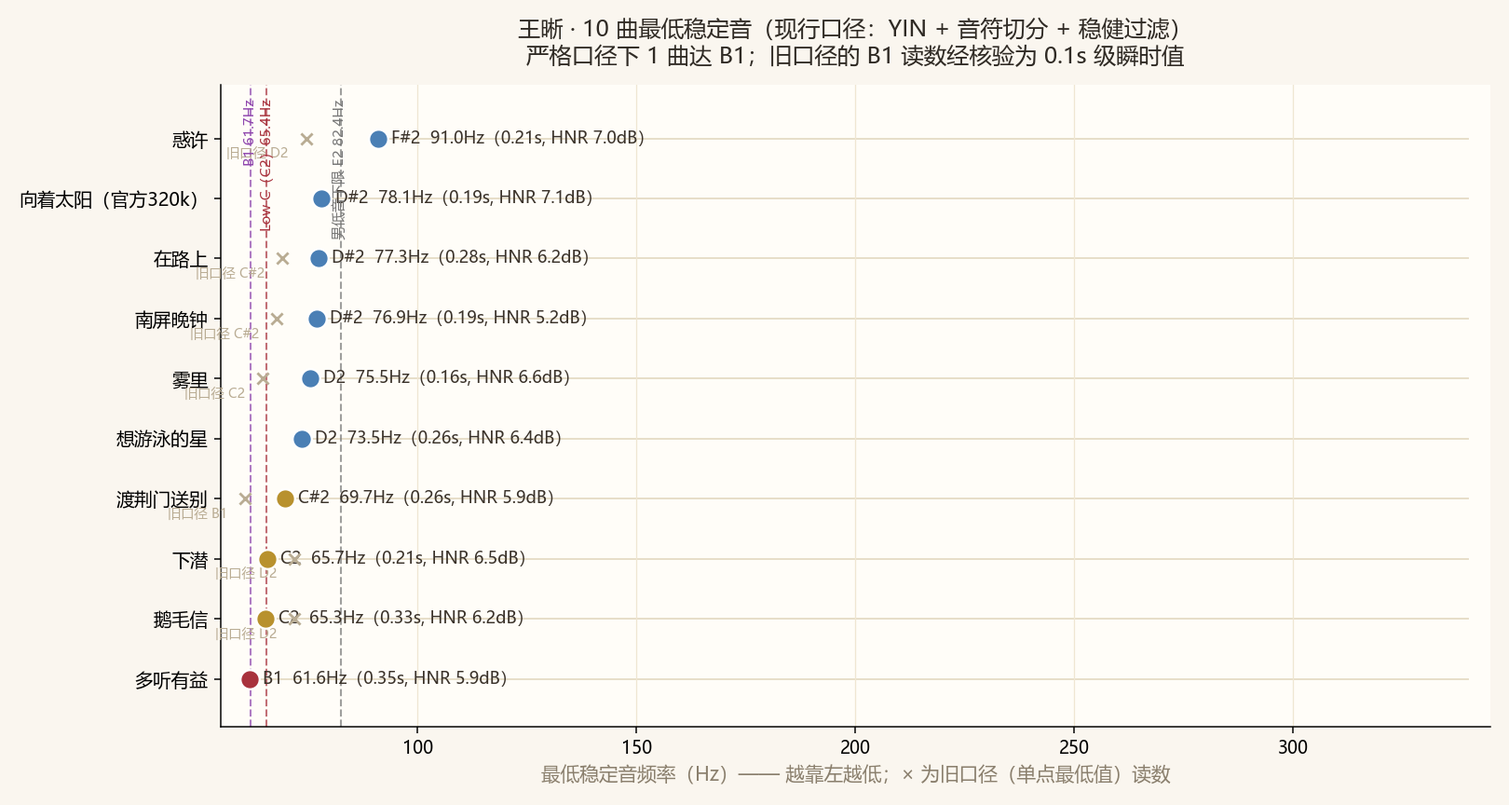
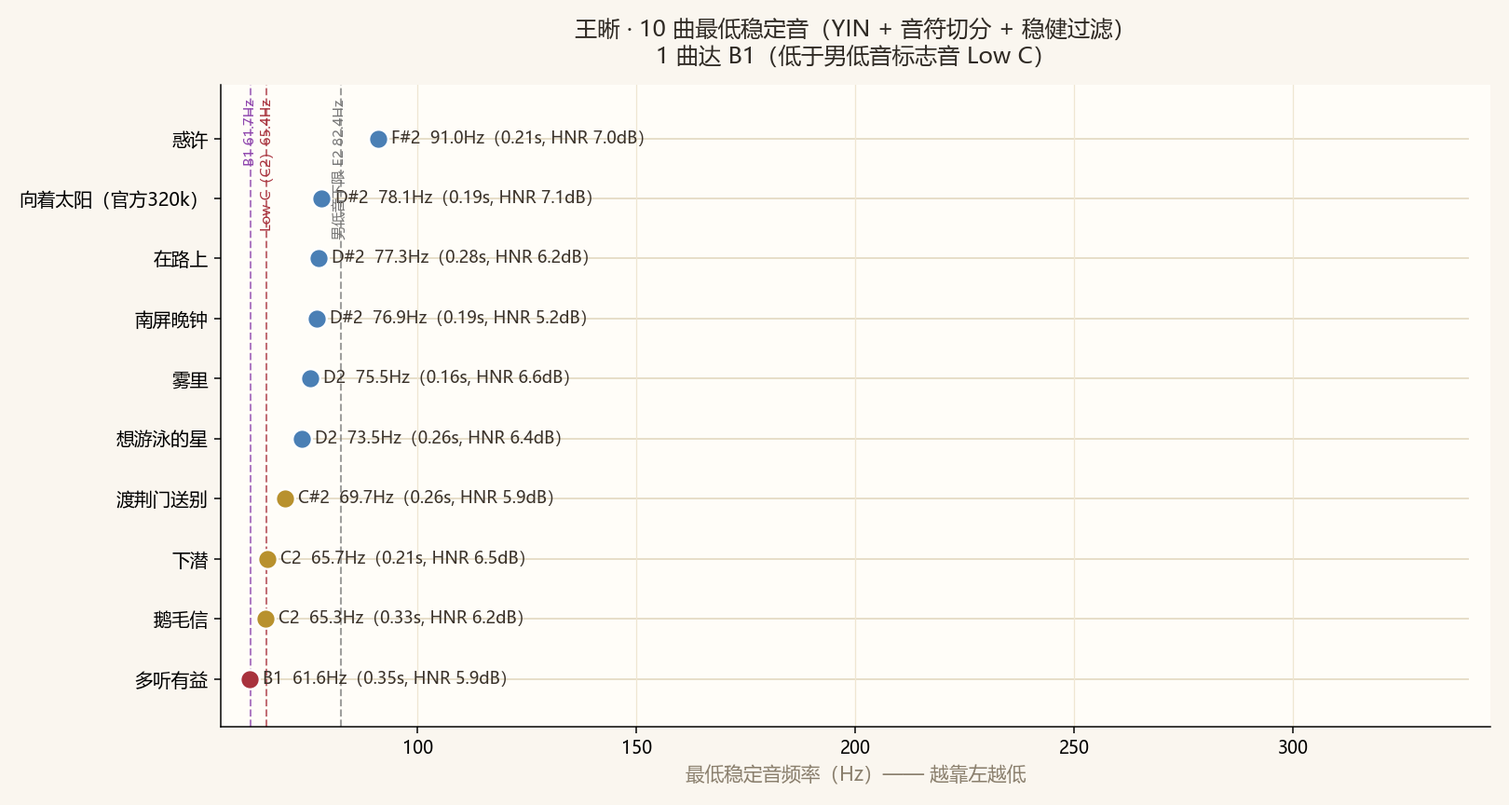
清理旧口径/过程稿内容(读者向): voice.html 删除口径升级公告+口径变更卡片+瞬时最低列+pYIN互验+结论修正叙述; stage.html 去v1/旧口径叙述与'含结论修正'标题; 数据层 method.cross_check 与 conclusion.note 同步; 十曲图去旧口径标注重绘; llms.txt 去'结论修正'; 新增过程稿措辞黑名单(audit_jsonld+audit_live)

diff --git a/live/setlists.html b/live/setlists.html
@@ -146,7 +146,7 @@ h3{color:#444;margin:18px 0 8px;}
 <article class="show" id="show-2026-06-13"><h3>重庆（首站） · 2026-06-13 · 重庆施光南大剧院</h3><ol class="songs"><li><span class="s-order">1</span><span class="s-title">花儿为什么这样红</span><span class="s-note">本场第1首；开场；二巡歌颂经典开场六巡神还原；B站饭拍talk版上半场收录；证据：晰晰Calepin BV1nzjM6iEtS 上半场00:08起；饭拍验证；剧院：重庆施光南大剧院</span></li><li><span class="s-order">2</span><span class="s-title">像雾像雨又像风</span><span class="s-note">本场第2首；二巡经典回归；talk版上半场收录；证据：晰晰Calepin 完整版上半场收录；剧院：重庆施光南大剧院</span></li><li><span class="s-order">3</span><span class="s-title">Yesterday Once More</span><span class="s-note">本场第3首；卡朋特经典；4K双语字幕饭拍已确认；证据：B站 一只小陆____ BV1wsjV6HEy6 4K双语字幕版；剧院：重庆施光南大剧院</span></li><li><span class="s-order">4</span><span class="s-title">Close to You</span><span class="s-note">本场第4首；卡朋特经典；三巡图景固定曲目回归；证据：粉丝现场披露单 + talk版上半场收录；剧院：重庆施光南大剧院</span></li><li><span class="s-order">5</span><span class="s-title">月半弯</span><span class="s-note">本场第5首；三巡图景/四巡肆益经典；六巡全新编曲回归；证据：粉丝现场披露单 + talk版上半场收录；剧院：重庆施光南大剧院</span></li><li><span class="s-order">6</span><span class="s-title">再见我的爱人</span><span class="s-note">本场第6首；一巡经典；被粉丝要求连唱两遍；证据：B站 一只小陆____ BV1sP7F6HEwA 4K字幕版（2059次播放喉结震颤版）；剧院：重庆施光南大剧院</span></li><li><span class="s-order">7</span><span class="s-title">心动</span><span class="s-note">本场第7首；一巡珍晰 / 四巡肆益首场+跨年点歌；六巡正式入固定单；证据：粉丝现场披露单 + talk版上半场收录；剧院：重庆施光南大剧院</span></li><li><span class="s-order">8</span><span class="s-title">一生守候</span><span class="s-note">本场第8首；【安可/点歌】；用户披露单未收录！；证据：B站 Apewinter BV1m7Jp6ZELZ 《王晰六巡【一生守候】》4K饭拍 130播放；剧院：重庆施光南大剧院；【排序修正】依据主站现场实录与B站饭拍合集上传倒序，实际为本场第8首（上半场末），非安可</span></li><li><span class="s-order">9</span><span class="s-title">让她降落</span><span class="s-note">本场第9首；一巡珍晰开场曲；粉丝称"最权威的版本六年后回归"；证据：B站 BV1zEJA6xEr2（4K字幕6.0万播放53弹幕）+ 鹅毛信版BV1icJp6zEG3；剧院：重庆施光南大剧院；上半场最后一首（花瓣雨）</span></li><li><span class="s-order">10</span><span class="s-title">Besame Mucho</span><span class="s-note">本场第10首；我是歌手第四季踢馆封神曲；一巡/四巡固定；拉丁情歌经典；证据：重庆文艺网官方售票宣推提及 + 完整版下半场talk收录；剧院：重庆施光南大剧院</span></li><li><span class="s-order">11</span><span class="s-title">Autumn Leaves</span><span class="s-note">本场第11首；我是歌手第三季；一巡二巡经典爵士；证据：粉丝现场披露单 + talk版下半场收录；剧院：重庆施光南大剧院</span></li><li><span class="s-order">12</span><span class="s-title">情网</span><span class="s-note">本场第12首；张学友经典翻唱；六巡新加入固定曲；证据：粉丝现场披露单 + talk版下半场收录；剧院：重庆施光南大剧院</span></li><li><span class="s-order">13</span><span class="s-title">平凡又美好的晚上</span><span class="s-note">本场第13首；待考出处；六巡新增固定曲目（疑似原创）；证据：粉丝现场披露单 + talk版下半场收录；剧院：重庆施光南大剧院</span></li><li><span class="s-order">14</span><span class="s-title">女人花+水中花</span><span class="s-note">本场第14首；组曲；"动如彩蝶穿花，静如秋水沉波"；4K饭拍舞美已确认；证据：B站 Apewinter BV1iKJ46QEkX 舞美饭拍 + 一只小陆____4K字幕神级弦乐bridge版；剧院：重庆施光南大剧院</span></li><li><span class="s-order">15</span><span class="s-title">Your Man</span><span class="s-note">本场第15首；一巡珍晰固定；摇摆爵士；六巡swing新编；证据：B站 Apewinter BV15bJA6SEmK（"swing起来！"直拍）；剧院：重庆施光南大剧院</span></li><li><span class="s-order">16</span><span class="s-title">生日快乐</span><span class="s-note">本场第16首；主站现场实录收录（live/hui-回-重庆-2026.html）；四巡北京首场/广州/武汉收官等场亦有生日歌互动传统；独立饭拍未见，依据站方实录，待二次核验</span></li><li><span class="s-order">17</span><span class="s-title">夜色</span><span class="s-note">本场第17首；收尾曲；"爱你情深意绵"；4K字幕饭拍已确认；证据：B站 一只小陆____ 《夜色》4K字幕 + Apewinter BV1NaLo6kEue talk版；剧院：重庆施光南大剧院</span></li></ol></article>
 <article class="show" id="show-2026-08-23"><h3>广州 · 2026-08-23 · 广东艺术剧院</h3><ol class="songs"><li><span class="s-order">0</span><span class="s-title">生日快乐</span><span class="s-note">互动环节</span></li><li><span class="s-order">1</span><span class="s-title">花儿为什么这样红</span><span class="s-note">开场曲</span></li><li><span class="s-order">2</span><span class="s-title">橄榄树</span><span class="s-note">广州限定新增曲(重庆站无); 五巡金曲回归</span></li><li><span class="s-order">3</span><span class="s-title">像雾像雨又像风</span><span class="s-note">六巡固定</span></li><li><span class="s-order">4</span><span class="s-title">Yesterday Once More</span><span class="s-note">卡朋特经典</span></li><li><span class="s-order">5</span><span class="s-title">Close to You</span><span class="s-note">三巡图景回归</span></li><li><span class="s-order">6</span><span class="s-title">月半弯</span><span class="s-note">六巡回归</span></li><li><span class="s-order">7</span><span class="s-title">再见我的爱人</span><span class="s-note">一巡经典</span></li><li><span class="s-order">8</span><span class="s-title">心动</span><span class="s-note">一巡/四巡经典; 六巡固定</span></li><li><span class="s-order">9</span><span class="s-title">一生守候</span><span class="s-note">安可/点歌; 六巡固定</span></li><li><span class="s-order">10</span><span class="s-title">让她降落</span><span class="s-note">一巡珍晰开场曲</span></li><li><span class="s-order">11</span><span class="s-title">Besame Mucho</span><span class="s-note">我是歌手封神曲; 一巡/四巡固定</span></li><li><span class="s-order">12</span><span class="s-title">Autumn Leaves</span><span class="s-note">爵士经典</span></li><li><span class="s-order">13</span><span class="s-title">情网</span><span class="s-note">张学友翻唱; 六巡固定</span></li><li><span class="s-order">14</span><span class="s-title">平凡又美好的晚上</span><span class="s-note">六巡新增固定</span></li><li><span class="s-order">15</span><span class="s-title">女人花+水中花</span><span class="s-note">组曲</span></li><li><span class="s-order">16</span><span class="s-title">Your Man</span><span class="s-note">网友总结：同一首歌现场唱了多遍，区分版次</span></li><li><span class="s-order">17</span><span class="s-title">Your Man</span><span class="s-note">网友总结：同一首歌现场唱了多遍，区分版次</span></li><li><span class="s-order">18</span><span class="s-title">情网</span><span class="s-note">网友总结：同一首歌现场唱了多遍，区分版次（情网第二遍）</span></li><li><span class="s-order">19</span><span class="s-title">夜色</span><span class="s-note">收尾曲</span></li></ol></article>
 </section>
-<p class="footnote">曲目与顺序以巡演歌单长表（单一事实源）为准；备注含现场验证信息。生成时间 2026-09-09 17:18。</p>
+<p class="footnote">曲目与顺序以巡演歌单长表（单一事实源）为准；备注含现场验证信息。生成时间 2026-09-09 17:27。</p>
 <!-- FOOTER_NAV_START -->
 <footer class="site-index" style="margin:40px auto;max-width:1100px;padding:18px 22px;border-top:1px solid #e5e5e5;font-size:13px;color:#666;line-height:2;">
 <strong style="color:#333;">🧭 全站索引</strong><span style="color:#999;font-size:12px;">（本区块由 project_b/build_nav.py 自动生成，保证每个页面都有入口、可被爬虫抓取）</span>

diff --git a/story.html b/story.html
@@ -20,7 +20,7 @@
     "name": "王晰巡演数据故事",
     "description": "基于 2019-2026 六轮巡演 59 场与深夜小酒馆 106 期逐字稿计算的数据故事，全部数字动态生成。",
     "url": "https://wx409.github.io/story.html",
-    "dateModified": "2026-09-09 17:18",
+    "dateModified": "2026-09-09 17:27",
     "isPartOf": {
       "@type": "WebSite",
       "name": "王晰 GEO 资料站",
@@ -35,7 +35,7 @@
     "url": "https://wx409.github.io/story.html",
     "inLanguage": "zh-CN",
     "datePublished": "2026-08-14",
-    "dateModified": "2026-09-09 17:18",
+    "dateModified": "2026-09-09 17:27",
     "author": {
       "@type": "Organization",
       "name": "王晰 GEO 资料站",
@@ -181,7 +181,7 @@ th{background:#f5f5f5;}
 <section class="story-block" id="tavern-voices"><h2>🍷 酒馆之声</h2><p class="story-intro">深夜小酒馆 106 期逐字稿中，被提及最多的歌曲。</p><div class="card-grid"><div class="story-card"><div class="rank">#1</div><div class="sc-name">云一定知道</div><div class="sc-metrics"><div class="sc-m"><span>提及</span><b>1 期</b></div><div class="sc-m"><span>场次</span><b>29 场</b></div></div><div class="sc-extra">深夜小酒馆里被反复聊起的歌</div></div><div class="story-card"><div class="rank">#2</div><div class="sc-name">在路上</div><div class="sc-metrics"><div class="sc-m"><span>提及</span><b>1 期</b></div><div class="sc-m"><span>场次</span><b>9 场</b></div></div><div class="sc-extra">深夜小酒馆里被反复聊起的歌</div></div><div class="story-card"><div class="rank">#3</div><div class="sc-name">南屏晚钟</div><div class="sc-metrics"><div class="sc-m"><span>提及</span><b>1 期</b></div><div class="sc-m"><span>场次</span><b>4 场</b></div></div><div class="sc-extra">深夜小酒馆里被反复聊起的歌</div></div><div class="story-card"><div class="rank">#4</div><div class="sc-name">山楂树</div><div class="sc-metrics"><div class="sc-m"><span>提及</span><b>1 期</b></div><div class="sc-m"><span>场次</span><b>3 场</b></div></div><div class="sc-extra">深夜小酒馆里被反复聊起的歌</div></div><div class="story-card"><div class="rank">#5</div><div class="sc-name">一生中最爱</div><div class="sc-metrics"><div class="sc-m"><span>提及</span><b>1 期</b></div><div class="sc-m"><span>场次</span><b>2 场</b></div></div><div class="sc-extra">深夜小酒馆里被反复聊起的歌</div></div></div></section>
 <section class="story-block" id="city-leaders"><h2>🏙 城市之最</h2><p class="story-intro">演出场次最多的城市——王晰巡演的深耕之地。</p><div class="card-grid"><div class="story-card"><div class="rank">#1</div><div class="sc-name">上海</div><div class="sc-metrics"><div class="sc-m"><span>场次</span><b>9 场</b></div><div class="sc-m"><span>实际举办</span><b>9 场</b></div></div><div class="sc-extra">上海东方艺术中心、上海保利大剧院·大剧场、上海北外滩友邦大剧院…</div></div><div class="story-card"><div class="rank">#2</div><div class="sc-name">北京</div><div class="sc-metrics"><div class="sc-m"><span>场次</span><b>9 场</b></div><div class="sc-m"><span>实际举办</span><b>9 场</b></div></div><div class="sc-extra">北京世纪剧院、北京二七剧场、北京北展剧场…</div></div><div class="story-card"><div class="rank">#3</div><div class="sc-name">杭州</div><div class="sc-metrics"><div class="sc-m"><span>场次</span><b>7 场</b></div><div class="sc-m"><span>实际举办</span><b>7 场</b></div></div><div class="sc-extra">杭州剧院、杭州金沙湖大剧院</div></div><div class="story-card"><div class="rank">#4</div><div class="sc-name">广州</div><div class="sc-metrics"><div class="sc-m"><span>场次</span><b>6 场</b></div><div class="sc-m"><span>实际举办</span><b>6 场</b></div></div><div class="sc-extra">广东艺术剧院、广州中山纪念堂</div></div><div class="story-card"><div class="rank">#5</div><div class="sc-name">武汉</div><div class="sc-metrics"><div class="sc-m"><span>场次</span><b>4 场</b></div><div class="sc-m"><span>实际举办</span><b>4 场</b></div></div><div class="sc-extra">武汉剧院、武汉琴台大剧院</div></div><div class="story-card"><div class="rank">#6</div><div class="sc-name">长沙</div><div class="sc-metrics"><div class="sc-m"><span>场次</span><b>4 场</b></div><div class="sc-m"><span>实际举办</span><b>4 场</b></div></div><div class="sc-extra">长沙梅溪湖国际文化艺术中心大剧院、长沙音乐厅</div></div><div class="story-card"><div class="rank">#7</div><div class="sc-name">南京</div><div class="sc-metrics"><div class="sc-m"><span>场次</span><b>3 场</b></div><div class="sc-m"><span>实际举办</span><b>3 场</b></div></div><div class="sc-extra">南京保利大剧院、南京太阳宫剧场</div></div><div class="story-card"><div class="rank">#8</div><div class="sc-name">南宁</div><div class="sc-metrics"><div class="sc-m"><span>场次</span><b>3 场</b></div><div class="sc-m"><span>实际举办</span><b>3 场</b></div></div><div class="sc-extra">广西文化艺术中心、广西文化艺术中心·大剧院</div></div></div></section>
 <section class="story-block" id="tour-footprint"><h2>🧭 巡演足迹</h2><p class="story-intro">六轮巡演，从 2019 到 2026——每轮的规模都在这里。（口径：六轮巡演合计 59 场；另有签唱会等非巡演演出 5 场，全站合计 64 场、22 城、302 首有现场记录的歌）</p><table><tr><th>轮次</th><th>主题</th><th>城市</th><th>场次</th></tr><tr><td>一巡</td><td>Cherish珍晰</td><td>16 城</td><td>17 场</td></tr><tr><td>二巡</td><td>2020-2021 个人巡回</td><td>10 城</td><td>11 场</td></tr><tr><td>三巡</td><td>图景</td><td>12 城</td><td>12 场</td></tr><tr><td>四巡</td><td>肆益</td><td>7 城</td><td>9 场</td></tr><tr><td>五巡</td><td>吾</td><td>6 城</td><td>8 场</td></tr><tr><td>六巡</td><td>回</td><td>2 城</td><td>2 场</td></tr></table></section>
-<p class="footnote">数据来源：巡演歌单长表（单一事实源）→ cities.json / entity_index.json。生成时间 2026-09-09 17:18。</p>
+<p class="footnote">数据来源：巡演歌单长表（单一事实源）→ cities.json / entity_index.json。生成时间 2026-09-09 17:27。</p>
 <!-- FOOTER_NAV_START -->
 <footer class="site-index" style="margin:40px auto;max-width:1100px;padding:18px 22px;border-top:1px solid #e5e5e5;font-size:13px;color:#666;line-height:2;">
 <strong style="color:#333;">🧭 全站索引</strong><span style="color:#999;font-size:12px;">（本区块由 project_b/build_nav.py 自动生成，保证每个页面都有入口、可被爬虫抓取）</span>

diff --git a/qa.html b/qa.html
@@ -439,7 +439,7 @@
 <h2>五巡王晰巡演有哪些场次？</h2><p>2024-12-21 杭州 吾；2024-12-29 南昌 吾；2025-01-01 长沙 吾；2025-04-05 北京 吾；2025-05-24 广州 吾；2025-11-21 上海 吾；2026-01-31 杭州 吾；2026-04-10 北京 吾</p>
 <h2>《不王晰巡演有哪些场次？</h2><p>2025-05-01 上海 </p>
 <h2>六巡王晰巡演有哪些场次？</h2><p>2026-06-13 重庆 回；2026-08-23 广州 回</p>
-<p style="margin-top:40px;color:#999;font-size:12px;">生成时间：2026-09-09 17:18 · 数据源：王晰 GEO 档案站知识库</p>
+<p style="margin-top:40px;color:#999;font-size:12px;">生成时间：2026-09-09 17:27 · 数据源：王晰 GEO 档案站知识库</p>
 <!-- FOOTER_NAV_START -->
 <footer class="site-index" style="margin:40px auto;max-width:1100px;padding:18px 22px;border-top:1px solid #e5e5e5;font-size:13px;color:#666;line-height:2;">
 <strong style="color:#333;">🧭 全站索引</strong><span style="color:#999;font-size:12px;">（本区块由 project_b/build_nav.py 自动生成，保证每个页面都有入口、可被爬虫抓取）</span>

diff --git a/songs.html b/songs.html
@@ -118,7 +118,7 @@ h1{color:#1a1a1a;border-bottom:3px solid #c41e3a;padding-bottom:10px;}
 <div class="song-list" id="songList"></div>
 </div>
 </div>
-<p class="footnote">🎧 试听为多平台聚合：先试 QQ音乐（vkey 直链），失败自动切网易云音乐（搜索+直链）——哪个能听用哪个，不写死。VIP 锁曲需本地代理或登录。试听均为公开直链（不下载不托管）。生成时间 2026-09-09 17:18。</p>
+<p class="footnote">🎧 试听为多平台聚合：先试 QQ音乐（vkey 直链），失败自动切网易云音乐（搜索+直链）——哪个能听用哪个，不写死。VIP 锁曲需本地代理或登录。试听均为公开直链（不下载不托管）。生成时间 2026-09-09 17:27。</p>
 <script src="assets/player_embed.js?v=3"></script>
 <script>
 (function () {

diff --git a/project_b/build_stage_page.py b/project_b/build_stage_page.py
@@ -68,7 +68,7 @@ def cross_section() -> str:
 <strong>结论：测量管线没有系统性偏差。</strong>可配对 <strong>{c["n_pairs"]} 组</strong>同曲：最低稳定音中位差 <strong>0.00 半音</strong>、
 音域跨度 +0.09 八度、音符内稳定性 <strong>0.00 音分</strong>、颤音速率 −0.07Hz（均为中位差）。<br>
 <strong>关键个案《渡荆门送别》</strong>：舞台版 C#2 69.7Hz ↔ QQ官方版（《经典咏流传》节目音源）<strong>C#2 69.7Hz，完全一致</strong>——
-说明该曲的「旧口径 B1」是 0.1 秒级瞬时读数，不是音源条件造成的测量偏差。
+说明该曲的最低稳定音结论不受音源条件影响。
 </div>
 <table>
 <tr><th>曲目</th><th>QQ 官方版</th><th>舞台最低音（MIDI）</th><th>QQ 最低音（MIDI）</th><th>舞台跨度</th><th>QQ跨度</th><th>舞台稳定性</th><th>QQ稳定性</th><th>舞台颤音</th><th>QQ颤音</th><th>来源等级</th></tr>
@@ -143,10 +143,9 @@ def main() -> None:
         dataset_url="https://wx409.github.io/data/archive_stage.json",
         based_on=[{
             "@type": "Dataset",
-            "name": "v1 口径（已作废）：pYIN 单点最低音 + 全样本合并统计",
+            "name": "方法版本 v1（单点最低值）",
             "version": "v1",
-            "description": ("v1 报告「他人主导时最低音显著更高（p=0.015）」；v2 改用稳定音口径后该差异不显著"
-                            f"（p={_lowp if _lowp is not None else '—'}），结论已修正。"),
+            "description": "方法版本记录，供版本谱系与学术引用追溯；结果以本页现行稳健口径为准。",
         }],
         parts=[
             dataset_ref("33 个舞台素材逐条指标", "https://wx409.github.io/data/archive_stage.json"),
@@ -160,8 +159,8 @@ def main() -> None:
     )
     faq = faq_page([
         ("他人主导的综艺/晚会上，王晰的音域会变窄吗？",
-         (f"按 v2 稳定音口径，「王晰主导（录音室专辑）」与「他人主导（舞台）」的最低稳定音差异不显著"
-          f"（p={_lowp:.3f}），" if isinstance(_lowp, float) else "按 v2 稳定音口径，最低稳定音差异不显著，")
+         (f"按现行稳健口径，「王晰主导（录音室专辑）」与「他人主导（舞台）」的最低稳定音差异不显著"
+          f"（p={_lowp:.3f}），" if isinstance(_lowp, float) else "按现行稳健口径，最低稳定音差异不显著，")
          + "因此不能推断他人主导时音域变窄。统计上显著的是使用模式：高音区占比、跨度、音符内稳定性。"),
         ("为什么舞台上的高音区占比明显更高？",
          "综艺与晚会的编曲常升 key、加和声层、缩短单音时长，舞台曲目库与录音室专辑本身不同。"
@@ -272,10 +271,9 @@ def main() -> None:
 
 <p class="sub" style="margin-top:0">⚠ 上表「最高音」列（含 C5 及以上）存在<strong>伴唱/和声干扰风险</strong>，需人工听辨后再引用；「最低音」为 v2 稳健口径的稳定音。</p>
 
-<h2>四、与「王晰主导」的对照（含结论修正）</h2>
+<h2>四、与「王晰主导」的对照</h2>
 <div class="hl">
-<strong>⚠ 结论修正（v2 口径，2026-09-09）</strong>：在稳健过滤口径下，「最低稳定音」的组间差异<strong>不显著</strong>（p=0.197）。
-v1 曾报告该差异显著（p=0.015），原因是旧口径把 0.1 秒级瞬时低音读数当作稳定音，夸大了专辑的极端低音。<br>
+<strong>⚠ 注意：</strong>「最低稳定音」的组间差异<strong>不显著</strong>（p=0.197）——两组在低音能力上没有统计意义上的差别。<br>
 <strong>稳健的差异在「使用模式」而非「能力极限」</strong>：低音区（&lt;C3）占比 <strong>{reg['low_lt_C3']['self']} → {reg['low_lt_C3']['other']}（逐曲中位）</strong>、
 高音区（≥C4）占比 <strong>{reg['high_ge_C4']['self']} → {reg['high_ge_C4']['other']}（逐曲中位）</strong>、最高音中位 <strong>F#4 → E5</strong>、跨度中位 <strong>{span['self']} → {span['other']} 个八度</strong>。
 <span style="color:#8a7f6d">（此处为「逐曲中位」口径；上方声区分布卡片是「按时长加权的全组平均」，两者统计对象不同：本组加权平均高音区 {s['register_mean']['high_ge_C4']*100:.0f}%、低音区 {s['register_mean']['low_lt_C3']*100:.0f}%，不可与逐曲中位混读。）</span>

diff --git a/project_b/audit_jsonld.py b/project_b/audit_jsonld.py
@@ -20,7 +20,9 @@ from pathlib import Path
 ROOT = Path(__file__).resolve().parent.parent
 BLOCK = re.compile(r'<script type="application/ld\+json">(.*?)</script>', re.S)
 # 只拦「对王晰的排名/唯一性断言」，不拦引语与客观事实里的"唯一"（如"六首曲目中唯一的合作曲"）
-BANNED = ["声学指纹", "生物指纹", "机械级音准", "华语最低", "华语第一", "国内唯一", "唯一一位", "排名第一", "第一人", "世界最低"]
+BANNED = ["声学指纹", "生物指纹", "机械级音准", "华语最低", "华语第一", "国内唯一", "唯一一位", "排名第一", "第一人", "世界最低",
+          # 过程稿措辞：读者只关心结论与现行方法，旧口径叙述只会引起误解（2026-09-09 决策）
+          "旧口径", "v1 口径", "v1 曾", "v1 报告", "口径升级", "口径变更", "结论修正", "瞬时最低", "已作废", "NoneHz"]
 REQUIRED = {
     "voice.html": ("ResearchProject", "FAQPage"),
     "stage.html": ("ResearchProject", "FAQPage"),

diff --git a/project_b/audit_live.py b/project_b/audit_live.py
@@ -188,6 +188,13 @@ def check_blacklist(net: Net) -> None:
         (r"—（NoneHz）", "NoneHz 渲染缺陷"),
         (r"1 首歌曲（《多听有益》）最低稳定音达 B1", "旧 B1 句式（未分统计范围）"),
         (r"B1–F#2|B1-F#2", "旧低音主区写法 B1–F#2"),
+        # 过程稿措辞（2026-09-09 决策：旧口径叙述一律不上线）
+        (r"旧口径", "旧口径叙述"),
+        (r"v1 口径|v1 曾|v1 报告", "方法版本号叙述"),
+        (r"口径升级|口径变更", "口径变更叙述"),
+        (r"结论修正", "结论修正叙述"),
+        (r"瞬时最低", "瞬时最低列/叙述"),
+        (r"已作废", "已作废叙述"),
     ]
     pages = ["voice.html", "stage.html", "index.html", "llms.txt"]
     for page in pages:

diff --git a/data/calibers.md b/data/calibers.md
@@ -1,6 +1,6 @@
 # 口径登记表（单一事实源 · 数字字典）
 
-> 生成时间：2026-09-09 17:18　｜　生成脚本：`project_b/build_calibers.py`（幂等，部署时自动重跑）
+> 生成时间：2026-09-09 17:27　｜　生成脚本：`project_b/build_calibers.py`（幂等，部署时自动重跑）
 >
 > **纪律**：任何页面/论文/宣传材料引用数字，必须同时给出本表 id 与范围。
 > 不同范围的数字**不是矛盾**，混用才是错误。场次数必须成对出现（全站 = 巡演 + 签唱会）。
